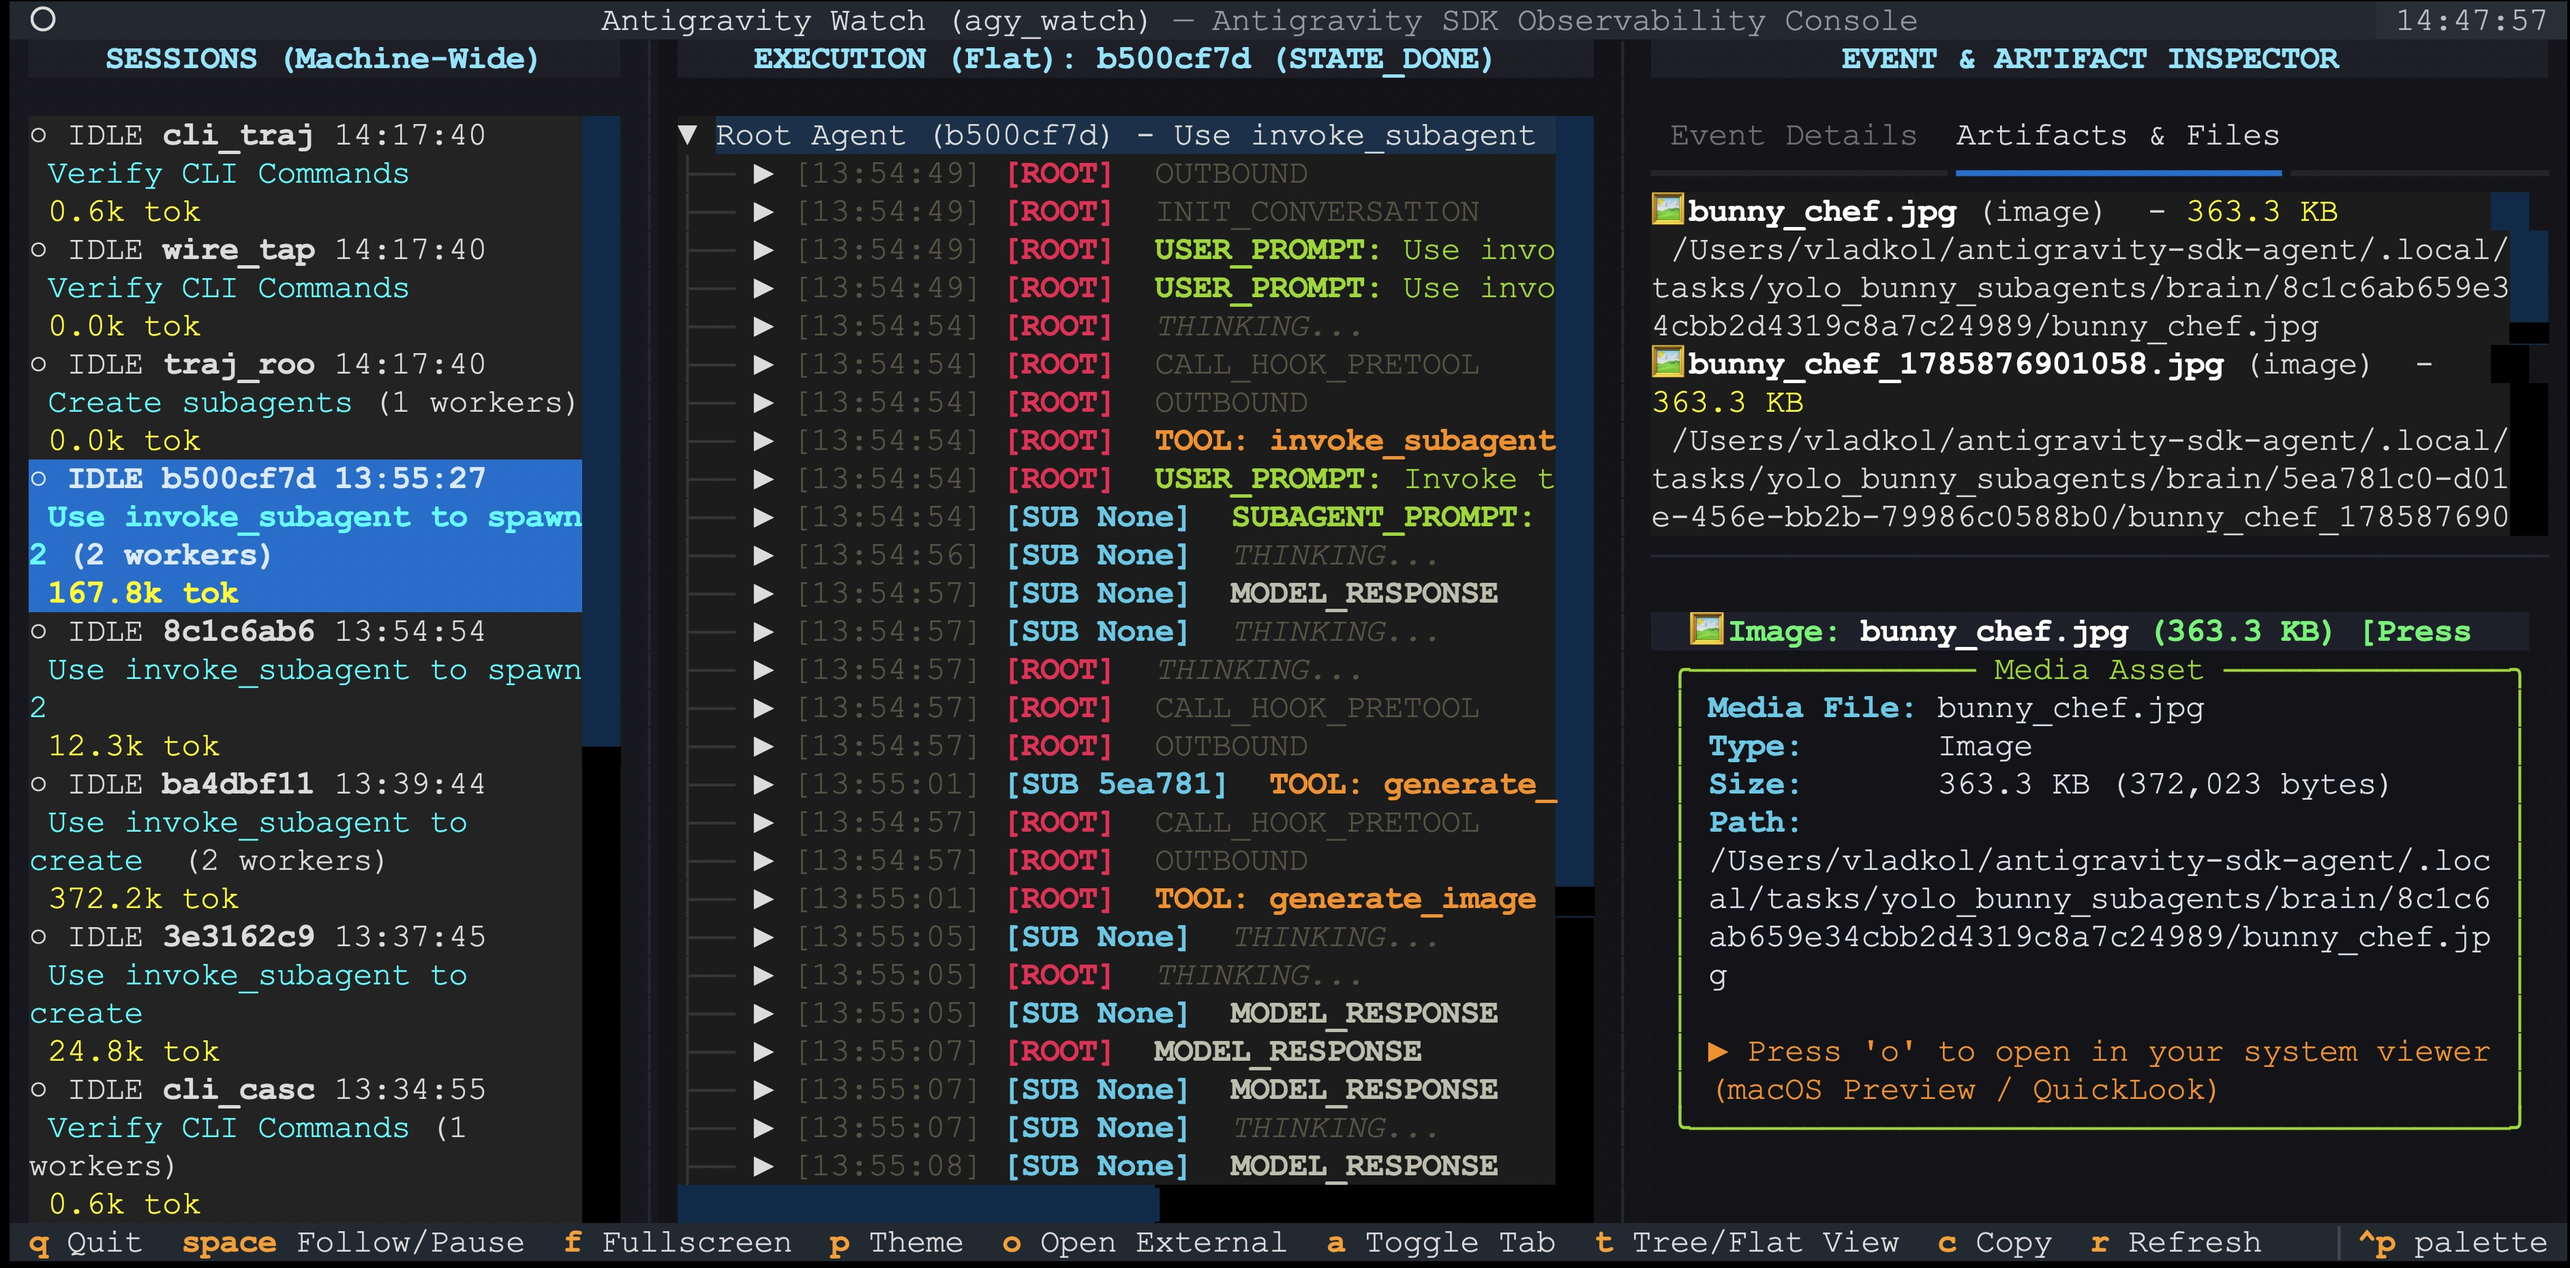
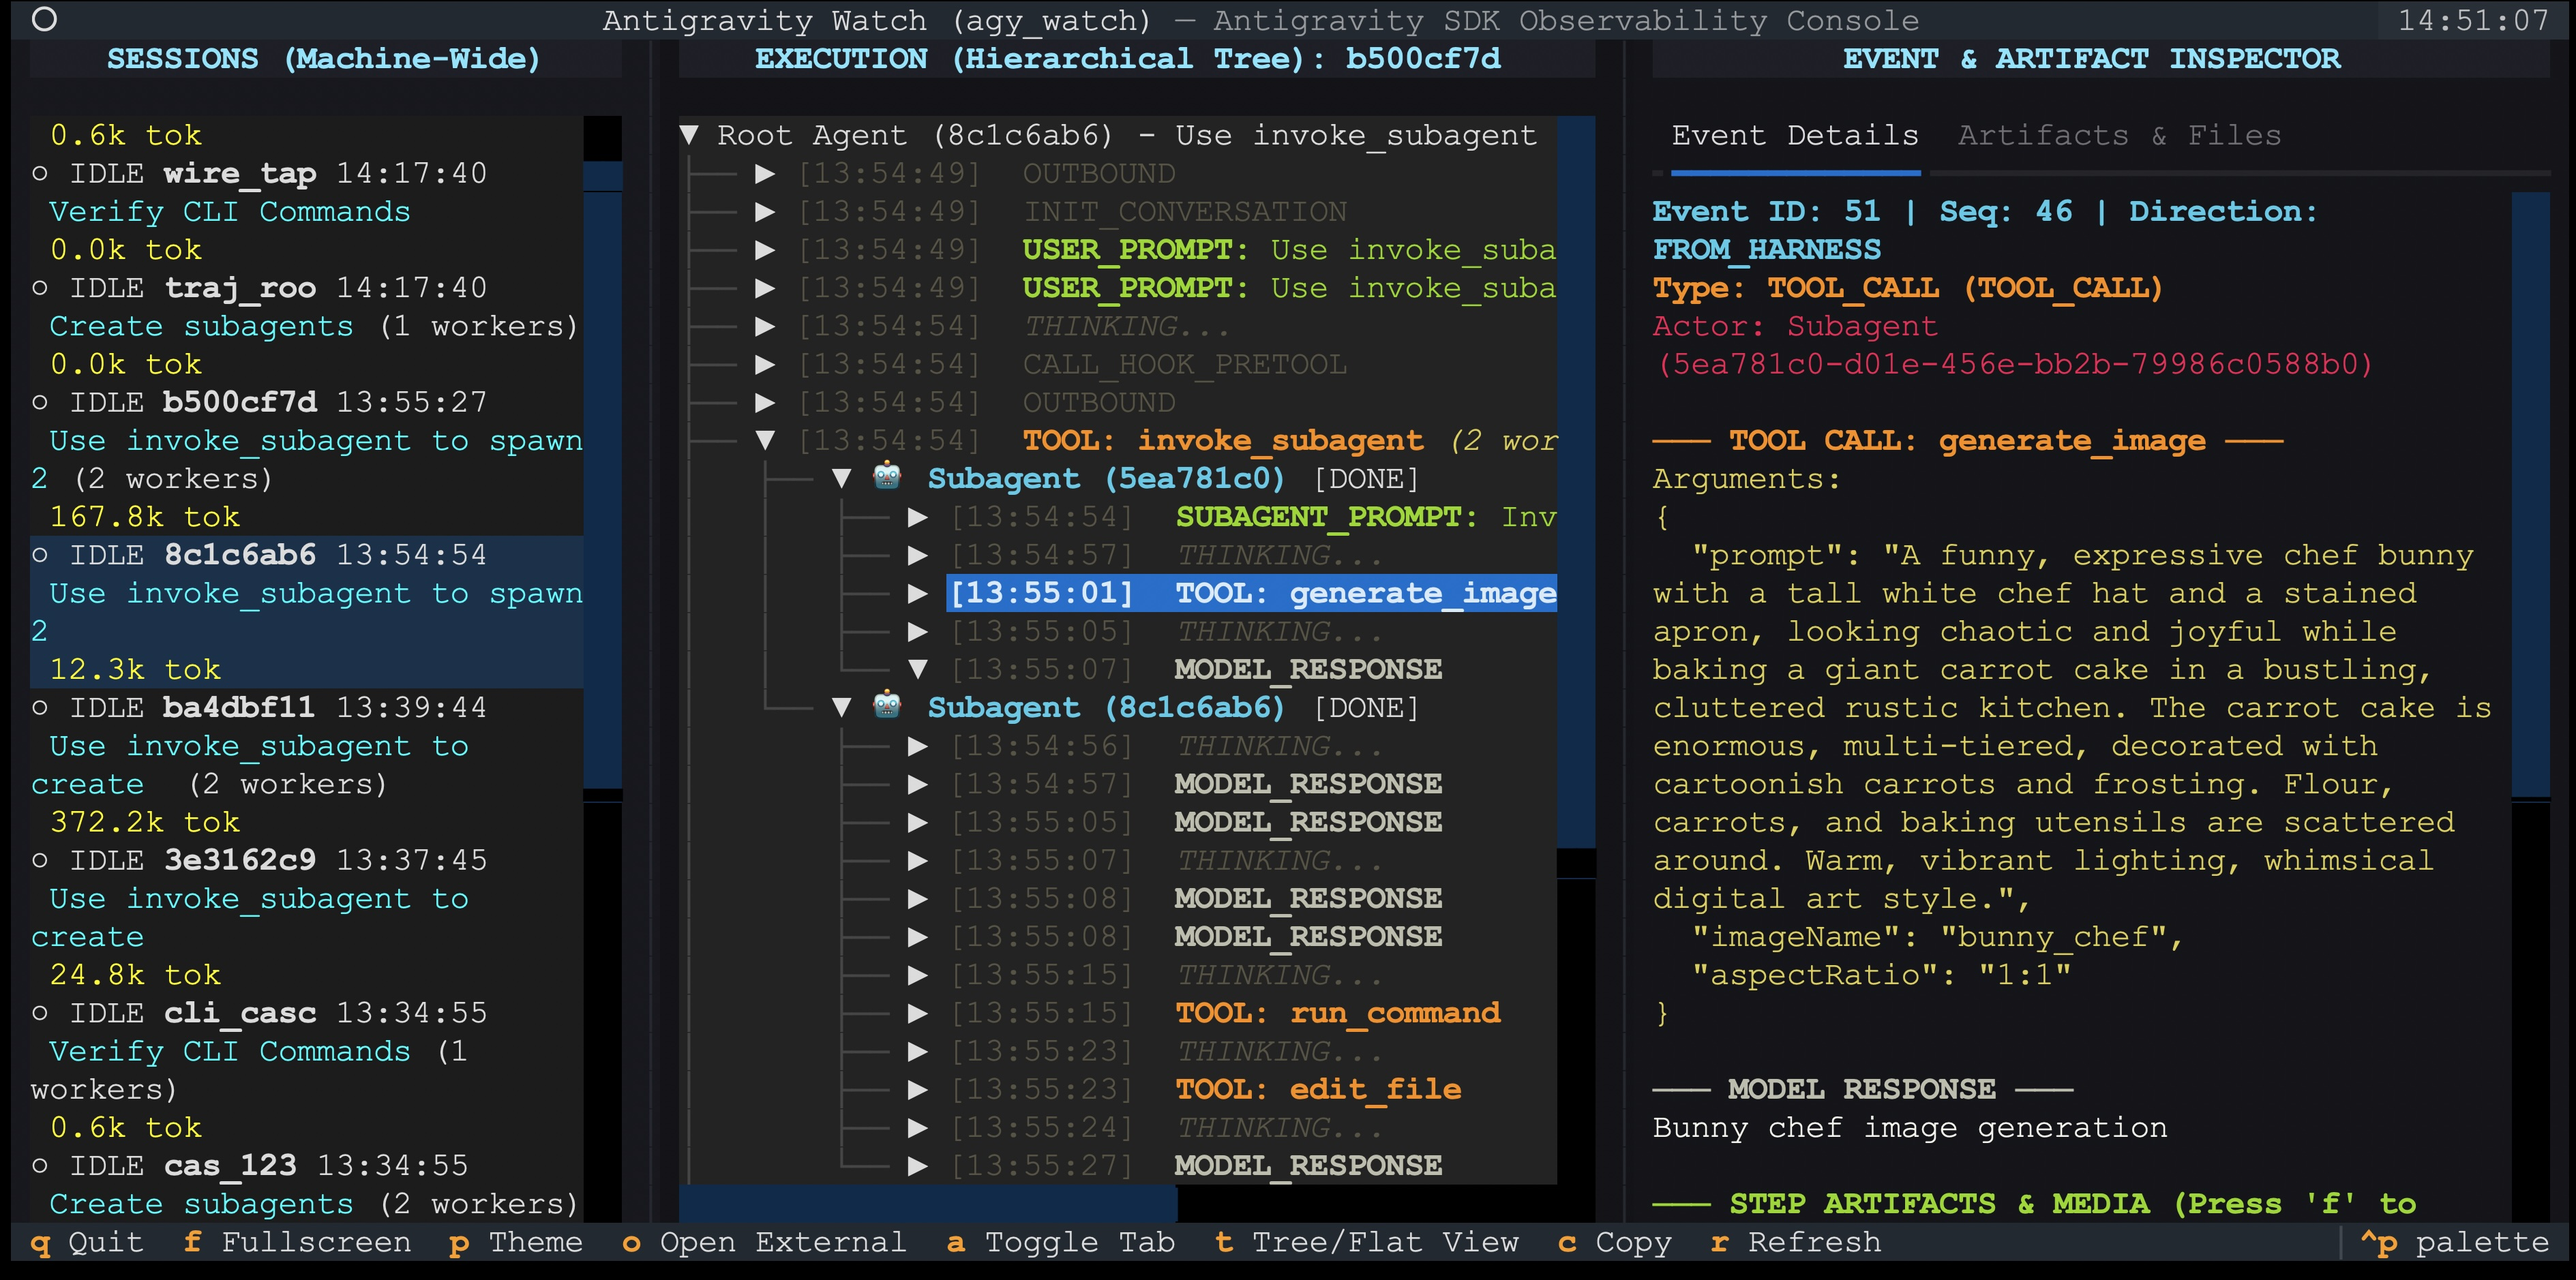
screenshot update and tree-mode as default view

diff --git a/agy_watch/tui.py b/agy_watch/tui.py
@@ -315,10 +315,15 @@ class AgyWatchApp(App):
         Binding("3", "filter_subagent_3", "Subagent 3", show=False),
     ]
 
-    def __init__(self, initial_session_id: Optional[str] = None, registry_db: Optional[str] = None):
+    def __init__(
+        self,
+        initial_session_id: Optional[str] = None,
+        registry_db: Optional[str] = None,
+        settings: Optional[UserSettings] = None,
+    ):
         super().__init__()
         self.registry: GlobalRegistry = get_global_registry()
-        self.settings: UserSettings = get_user_settings()
+        self.settings: UserSettings = settings or get_user_settings()
         self.initial_session_id = initial_session_id
         self.current_watcher: Optional[SessionWatcher] = None
         self.selected_event: Optional[Dict[str, Any]] = None

diff --git a/tests/test_cli_watch.py b/tests/test_cli_watch.py
@@ -238,7 +238,8 @@ async def test_tui_app_mount_and_pilot_lifecycle():
         from agy_watch.tui import AgyWatchApp
         reg_module._default_registry = registry
 
-        app = AgyWatchApp(initial_session_id="tui_traj_001")
+        from agy_watch.settings import UserSettings
+        app = AgyWatchApp(initial_session_id="tui_traj_001", settings=UserSettings())
 
         async with app.run_test() as pilot:
             # 1. Verify CSS stylesheet parsed without error and app is active
